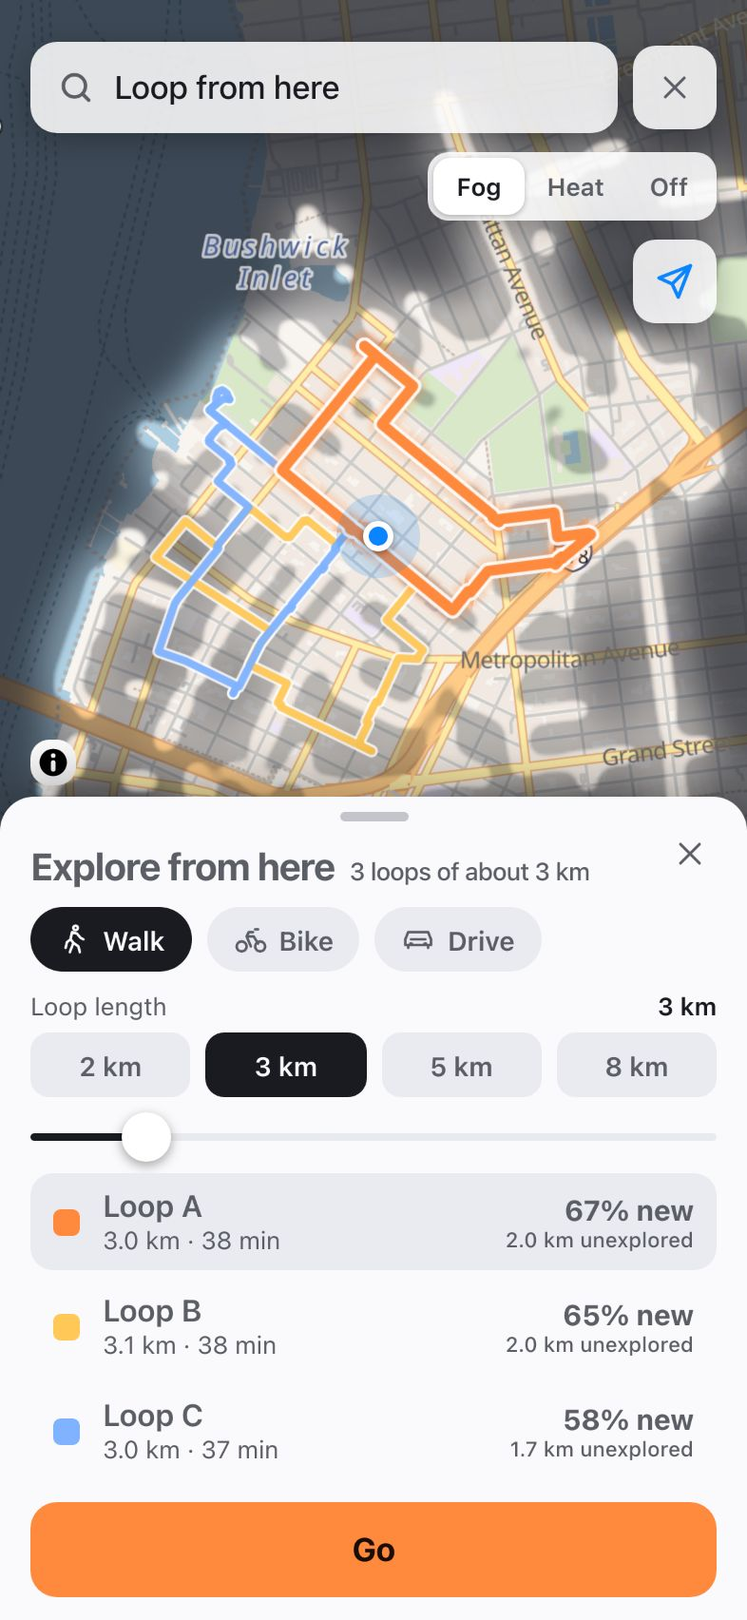
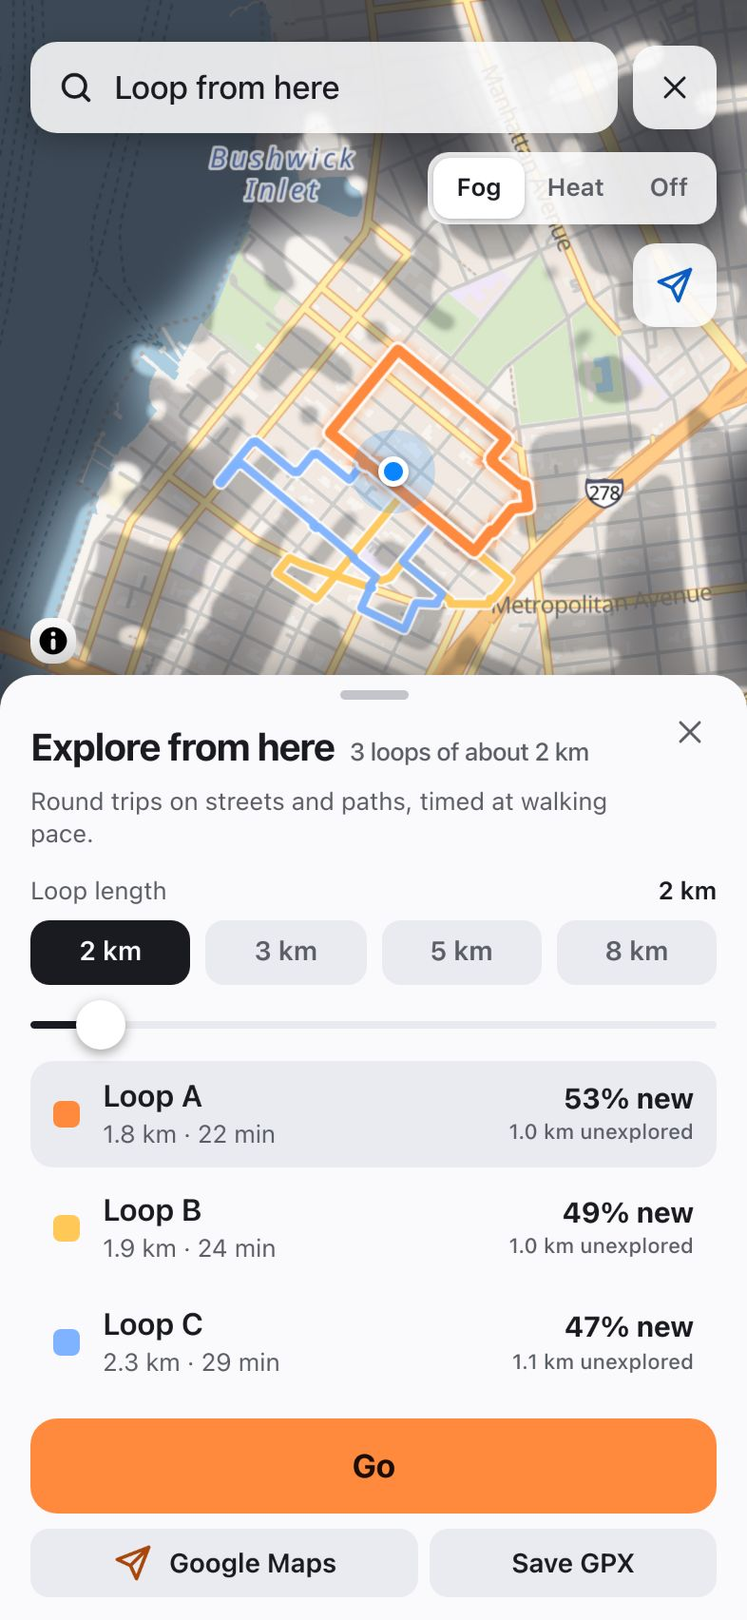
Landing site v3: fresh real screenshots after rounds 1–2, four views, tracking section; Help routes paragraph; README + iPhone checklist
- welcome: every figure re-captured from the built app (one travel mode, compact Google Maps row under
  Go, tracking pill, Settings switch, Data with Routing data, satellite + night views); copy for
  self-downloading streets across North America, the tracking switch and turn-by-turn via Google Maps;
  703 KB at 393 px, no third-party requests; OG image regenerated.
- capture.mjs/encode.mjs: new frames, basemap switching, pack relay for this Mac's Chromium, wake-lock shim.
- Help: 'What the routes do' explains that street data downloads by itself; README features + screenshots;
  iPhone checklist rows for automatic routing data.

diff --git a/welcome/index.html b/welcome/index.html
@@ -69,7 +69,7 @@
         <div class="phone">
           <picture>
             <source srcset="img/route.webp" type="image/webp">
-            <img src="img/route.jpg" width="786" height="1704" alt="Unfog's route sheet for Domino Park over a fogged map of Williamsburg: an orange Most new route that is 68 percent unexplored, an amber Balanced route and a blue Direct route, with a detour budget of plus 25 percent." fetchpriority="high">
+            <img src="img/route.jpg" width="786" height="1704" alt="Unfog's route sheet for Domino Park over a fogged map of Williamsburg: an orange Most new route that is 68 percent unexplored, an amber Balanced route and a blue Direct route, a detour budget of plus 25 percent, the Go button and a row of Google Maps, Apple Maps and Save GPX buttons under it." fetchpriority="high">
           </picture>
         </div>
         <figcaption class="fine">The real app, routing to Domino Park over sample walks in Williamsburg, Brooklyn.</figcaption>
@@ -82,8 +82,8 @@
 
     <section class="wrap section" id="views">
       <div class="section-head">
-        <p class="eyebrow">Three views</p>
-        <h2>Fog, heat, route.</h2>
+        <p class="eyebrow">Four views</p>
+        <h2>Fog, heat, satellite, route.</h2>
       </div>
       <div class="views">
         <figure class="view">
@@ -102,10 +102,17 @@
         </figure>
         <figure class="view">
           <picture>
-            <source srcset="img/route.webp" type="image/webp">
-            <img src="img/route.jpg" width="786" height="1704" loading="lazy" alt="Route sheet for Domino Park: an orange Most new route that is 68 percent new, an amber Balanced route at 61 percent and a blue Direct route at 63 percent, with a detour budget slider at plus 25 percent.">
+            <source srcset="img/satellite.webp" type="image/webp">
+            <img src="img/satellite.jpg" width="786" height="1704" loading="lazy" alt="Satellite view: the same fog over aerial imagery of Williamsburg. The blocks walked around the blue position dot form a lighter island with bright street corridors, everything around them sits dimmed under the fog, and street names stay legible in white.">
           </picture>
-          <figcaption><strong>Route</strong>Pick a destination and a detour budget; get up to three candidates, from Most new to Direct, each with its share of unexplored street. Routes follow paths where they exist and straight lines where they don't.</figcaption>
+          <figcaption><strong>Satellite</strong>The same fog over aerial imagery, street names kept. Choose Map, Dark or Satellite in Settings; Dark is a night map with lit streets.</figcaption>
+        </figure>
+        <figure class="view">
+          <picture>
+            <source srcset="img/route.webp" type="image/webp">
+            <img src="img/route.jpg" width="786" height="1704" loading="lazy" alt="Route sheet for Domino Park: an orange Most new route that is 68 percent new, an amber Balanced route at 66 percent and a blue Direct route at 64 percent, a detour budget slider at plus 25 percent, the Go button and under it a row of Google Maps, Apple Maps and Save GPX buttons.">
+          </picture>
+          <figcaption><strong>Route</strong>Pick a destination and a detour budget; get up to three candidates, from Most new to Direct, each with its share of unexplored street. Routes follow paths where they exist and straight lines where they don't, and a Google Maps button under Go takes over with turn-by-turn.</figcaption>
         </figure>
       </div>
       <p class="fine views-note">Screenshots are the real app over sample walks in Williamsburg, Brooklyn, not a mockup.</p>
@@ -117,17 +124,37 @@
           <p class="eyebrow">No destination?</p>
           <h2>Explore from here.</h2>
           <p class="lede">Pick a length and get up to three loops from where you stand, each one favouring streets you have never walked.</p>
-          <ul class="loop-chips" aria-label="Loop length presets"><li>2 km</li><li class="on">3 km</li><li>5 km</li><li>8 km</li></ul>
-          <p>Tap <b>Where to?</b>, then <b>Explore a loop from here</b>. The presets run 2 to 8 km and the slider 1 to 15 km. The loops come back as Loop A, B and C, sorted by unexplored distance, and Go follows the one you pick.</p>
+          <ul class="loop-chips" aria-label="Loop length presets"><li class="on">2 km</li><li>3 km</li><li>5 km</li><li>8 km</li></ul>
+          <p>Tap <b>Where to?</b>, then <b>Explore a loop from here</b>. The presets run 2 to 8 km and the slider 1 to 15 km. The loops come back as Loop A, B and C, sorted by unexplored distance; Go follows the one you pick, or hand it to Google Maps from the row under Go.</p>
         </div>
         <figure class="loops-figure">
           <div class="phone">
             <picture>
               <source srcset="img/loop.webp" type="image/webp">
-              <img src="img/loop.jpg" width="786" height="1704" loading="lazy" alt="Unfog's Explore from here sheet: three loops of about 3 km drawn from the user's position over the fogged map, length presets of 2, 3, 5 and 8 kilometres with 3 km selected, and Loop A at 67 percent new, Loop B at 65 percent and Loop C at 58 percent.">
+              <img src="img/loop.jpg" width="786" height="1704" loading="lazy" alt="Unfog's Explore from here sheet: three loops of about 2 km drawn from the user's position over the fogged map, length presets of 2, 3, 5 and 8 kilometres with 2 km selected, Loop A at 53 percent new, Loop B at 49 percent and Loop C at 47 percent, the Go button and a Google Maps and Save GPX row under it.">
             </picture>
           </div>
-          <figcaption class="fine">Three 3 km loops from Bedford Avenue and North 7th Street.</figcaption>
+          <figcaption class="fine">Three 2 km loops from Bedford Avenue and North 7th Street.</figcaption>
+        </figure>
+      </div>
+    </section>
+
+    <section class="wrap section" id="tracking">
+      <div class="split tracking">
+        <div class="tracking-copy">
+          <p class="eyebrow">Track my movement</p>
+          <h2>Clears as you walk.</h2>
+          <p class="lede">One switch in Settings, and Unfog clears the fog as you move, whenever it is open and on screen.</p>
+          <p>Nothing to start or stop. A small Tracking pill on the map is the only sign, the screen stays awake, and each day you have it open is one session you can export as GPX. That is as far as iOS lets a web app go: lock the phone or switch apps and the trail pauses until you are back. Fog of World records in the background, so keep it as your recorder and import its history now and then.</p>
+        </div>
+        <figure class="tracking-figure">
+          <div class="phone">
+            <picture>
+              <source srcset="img/settings.webp" type="image/webp">
+              <img src="img/settings.jpg" width="786" height="1704" loading="lazy" alt="Unfog's Settings in the Help screen: the Track my movement switch turned on with a note that iOS only lets a web app record while it is open, then Basemap with Map, Dark and Satellite, Units, Cleared core and the fog sliders.">
+            </picture>
+          </div>
+          <figcaption class="fine">Help → Settings: the switch, and the basemap choice underneath it.</figcaption>
         </figure>
       </div>
     </section>
@@ -140,7 +167,7 @@
       <ol class="how">
         <li>
           <h3>Fog of World stays your recorder</h3>
-          <p>Keep recording there as always. It tracks in the background, which a web app cannot, and Unfog never touches its data. Copy your history out once, then again whenever you want the map caught up. Unfog also tracks on its own while it is open: one switch in Settings, and the fog clears as you move.</p>
+          <p>Keep recording there as always. It tracks in the background, which a web app cannot, and Unfog never touches its data. Copy your history out once, then again whenever you want the map caught up. Unfog can track too: flip Track my movement once in Settings and the fog clears as you move, whenever the app is open and on screen.</p>
         </li>
         <li>
           <h3>Unfog imports your history</h3>
@@ -148,7 +175,7 @@
         </li>
         <li>
           <h3>Routes maximise unexplored streets</h3>
-          <p>Set a detour budget from +10 % to +100 % (default +25 %). Unfog searches the street graph for routes that spend the most distance on streets you have never been on: they follow paths where they exist, footpaths and stairs included, and straight lines where they don't, timed at walking pace. Tap Go and follow along on the map, or hand the route to Google Maps for turn-by-turn walking directions: one tap, the route's corners become checkpoints, and a long route opens in parts. No destination in mind? Ask for a loop of 2 to 8 km from where you stand instead.</p>
+          <p>Set a detour budget from +10 % to +100 % (default +25 %). Unfog searches the streets for routes that spend the most distance on ones you have never been on: they follow paths where they exist, footpaths and stairs included, and straight lines where they don't, timed at walking pace. The street data takes care of itself: anywhere in North America the streets around you download in the background and stay on the phone for offline routes. Tap Go and follow along on the map, or hand the route to Google Maps for turn-by-turn walking directions: one tap under Go, the route's corners become checkpoints, and a long route opens in parts of nine. No destination in mind? Ask for a loop of 2 to 8 km from where you stand instead.</p>
         </li>
       </ol>
     </section>
@@ -174,9 +201,10 @@
           <div class="phone">
             <picture>
               <source srcset="img/data.webp" type="image/webp">
-              <img src="img/data.jpg" width="786" height="1704" loading="lazy" alt="Unfog's Data screen: Import files, Export backup with the last backup date, prebuilt routing data for New York City and Metro Vancouver, sessions and Delete all data.">
+              <img src="img/data.jpg" width="786" height="1704" loading="lazy" alt="Unfog's Data screen: Export backup with the last backup date, then Routing data with the automatic street downloads listed as Streets near New York (US) with their size, above the prebuilt regions for New York City, Salt Spring Island and Metro Vancouver.">
             </picture>
           </div>
+          <figcaption class="fine">Further down the same Data screen: your backup, and the streets that download by themselves.</figcaption>
         </figure>
       </div>
     </section>
@@ -219,12 +247,12 @@
       <div class="privacy">
         <div class="copy">
           <p>No accounts, no analytics, no server of ours. Your history lives in the app's own storage on the phone, and a backup is a zip you export through the share sheet to Files or iCloud Drive.</p>
-          <p>A few requests do go out, only when needed, and none of them carry your history. The app itself and the prebuilt routing graphs for New York City and Metro Vancouver download from this site.</p>
+          <p>A few requests do go out, only when needed, and none of them carry your history. The app, its prebuilt regions and its street data download from GitHub Pages, where this site lives.</p>
         </div>
         <dl class="leaves">
-          <div><dt>Map tiles</dt><dd>From OpenFreeMap as you pan. Tiles you have seen are kept for offline use.</dd></div>
+          <div><dt>Map tiles</dt><dd>From OpenFreeMap as you pan, or Esri for the satellite view. Tiles you have seen are kept for offline use.</dd></div>
           <div><dt>Place search</dt><dd>What you type in "Where to?" goes to Photon (komoot) to find the place.</dd></div>
-          <div><dt>Street data on demand</dt><dd>Planning a route outside a prebuilt region fetches the streets around you from Overpass once, then keeps them on the phone.</dd></div>
+          <div><dt>Street data</dt><dd>Across North America the streets around you download by themselves from this project's map data, a few megabytes at a time (Wi-Fi or mobile, paused in Low Data Mode). Elsewhere, "Download this area" fetches them from Overpass once. Either way they stay on the phone.</dd></div>
         </dl>
       </div>
     </section>
@@ -245,7 +273,7 @@
         <details>
           <summary>Where does routing work?</summary>
           <div>
-            <p>Prebuilt routing graphs cover New York City and Metro Vancouver. Download one from Data → Routing data to route offline. Anywhere else, Unfog offers "Download this area" when you plan a route: it fetches the streets around you from Overpass once (a few kilometres around the route), then keeps them on the phone.</p>
+            <p>Anywhere in North America, with no download step: the streets around you and along each route arrive by themselves and stay on the phone for offline routes. Data → Routing data shows what is there, and clearing it loses nothing. Prebuilt regions for New York City, Metro Vancouver and Salt Spring Island can be downloaded whole in one tap. Elsewhere in the world, Unfog offers "Download this area" when you plan a route: it fetches the streets from Overpass once, a few kilometres around the route. Where no streets are known yet, a route is a straight line you can still follow.</p>
           </div>
         </details>
         <details>

diff --git a/welcome/style.css b/welcome/style.css
@@ -232,9 +232,10 @@ h3 { font-size: 1.125rem; font-weight: 600; line-height: 1.3; letter-spacing: -0
 .view strong { color: var(--ink); display: block; margin-bottom: 4px; font-size: 1.0625rem; }
 .views-note { margin-top: 16px; }
 
-/* ---------------------------------------------------------------- loops (Explore from here) */
-.loops-copy > p:not(.eyebrow):not(.lede) { margin-top: 20px; color: var(--ink-2); max-width: 58ch; }
-.loops-copy .lede { margin-top: 16px; }
+/* ---------------------------------------------------------------- loops (Explore from here) + tracking (Track my movement) */
+.loops-copy > p:not(.eyebrow):not(.lede), .tracking-copy > p:not(.eyebrow):not(.lede) { margin-top: 20px; color: var(--ink-2); max-width: 58ch; }
+.loops-copy .lede, .tracking-copy .lede { margin-top: 16px; }
+.tracking-figure figcaption { margin-top: 20px; text-align: center; }
 .loop-chips {
   display: flex;
   flex-wrap: wrap;
@@ -302,6 +303,7 @@ h3 { font-size: 1.125rem; font-weight: 600; line-height: 1.3; letter-spacing: -0
 .split .fine { margin-top: 20px; }
 .split .fine + .fine { margin-top: 12px; }
 .split .phone { margin-top: 8px; }
+.split figure > figcaption { margin-top: 20px; text-align: center; }
 .aside { display: grid; gap: 16px; margin-top: 32px; }
 .aside p { color: var(--ink-2); }
 .split h3 + .steps, .split h3 + p { margin-top: 12px; }
@@ -362,8 +364,6 @@ h3 { font-size: 1.125rem; font-weight: 600; line-height: 1.3; letter-spacing: -0
   .privacy { grid-template-columns: minmax(0, 1.1fr) minmax(0, 0.9fr); align-items: start; }
 }
 @media (min-width: 760px) {
-  .views { display: grid; grid-template-columns: repeat(3, minmax(0, 1fr)); overflow: visible; margin-inline: 0; padding: 0; gap: 32px; }
-  .view { flex: none; }
   .split { grid-template-columns: minmax(0, 1fr) minmax(0, 1fr); align-items: start; gap: 56px; }
   .split .phone { margin-top: 0; width: min(300px, 100%); }
   /* Loops: phone on the left, flush with the page's text edge, copy on the right — the mirror of the export/install splits below it. */
@@ -371,6 +371,10 @@ h3 { font-size: 1.125rem; font-weight: 600; line-height: 1.3; letter-spacing: -0
   .split.loops .loops-figure { order: -1; }
   .split.loops .phone { margin-inline: 0 auto; }
   .split.loops figcaption { text-align: left; }
+  /* Tracking: the mirror of loops — copy left, phone right on the page's outer edge. */
+  .split.tracking { grid-template-columns: minmax(0, 1.3fr) minmax(0, 0.7fr); align-items: center; }
+  .split.tracking .phone { margin-inline: auto 0; }
+  .split.tracking figcaption { text-align: right; }
   .band {
     display: block;
     position: relative;
@@ -398,6 +402,9 @@ h3 { font-size: 1.125rem; font-weight: 600; line-height: 1.3; letter-spacing: -0
   }
 }
 @media (min-width: 900px) {
+  /* Four views side by side only once each column is ≥ 240 px; below that the row stays a snap scroller. */
+  .views { display: grid; grid-template-columns: repeat(4, minmax(0, 1fr)); overflow: visible; margin-inline: 0; padding: 0; gap: 28px; }
+  .view { flex: none; }
   .hero {
     grid-template-columns: minmax(0, 1.15fr) minmax(0, 0.85fr);
     align-items: center;

diff --git a/src/app/help.ts b/src/app/help.ts
@@ -174,7 +174,7 @@ export function createHelpScreen(ctx: AppContext): HelpScreen {
         '"% new" is the share of the route on never-visited streets; "unexplored" is that distance.',
         'Most new maximises unexplored distance; Balanced trades a little; Direct is the shortest and is always shown.',
         'No destination in mind? "Where to?" → "Explore a loop from here" gives round trips of a length you choose.',
-        'Routing needs street data: prebuilt regions (Data → Routing data) or "Download this area" when you plan a route somewhere new (needs a connection once).',
+        'Street data comes by itself: as you move around (and wherever you plan a route), Unfog downloads the streets of that area in the background — Wi-Fi or mobile, paused when Low Data Mode is on — and keeps them for routes offline. Data → Routing data shows what is on your phone; nothing is lost by clearing it. Where no streets are known yet, routes are straight lines you can still follow, and "Download this area" fetches a place outside the automatic coverage (North America today).',
       ]),
     ),
     navigate: section(

diff --git a/docs/iphone-checklist.md b/docs/iphone-checklist.md
@@ -22,7 +22,10 @@ Fog of World → long-press **Sync** → Compress) on the phone; a charged phone
 | 11 | Route sheet. | Title + "x km direct", one line "Routes follow paths where they exist and straight lines where they don't, timed at walking pace" (no Walk/Bike/Drive anywhere), detour slider "+25% · up to y km", 2–3 candidates (Most new / Balanced / Direct) with "km · min" (walking pace) and "% new / km unexplored"; selected route orange with glow, alternatives amber/blue; pin at the destination; camera fits the routes above the sheet. Move the slider → routes recompute. A pin off the street grid: the status line says "starts/ends with N m off-path" and that leg is dashed. | |
 | 11b | "Where to?" → **Explore a loop from here** (also offered in the route sheet when no route is found). | Sheet "Explore from here · loops of about 3 km": the line "Round trips on streets and paths, timed at walking pace", length chips 2 / 3 / 5 / 8 km + a 1–15 km slider, then 1–3 rows "Loop A / B / C" with "km · min" and "% new / km unexplored"; round trips starting at the blue dot (a pin marks the start only when there is no location and the map centre is used), drawn with the same orange/amber/blue styling and fitted above the sheet; pill reads "Loop from here". Tap **5 km** → loops recompute near 5 km; drag the slider → the label follows and loops recompute when you let go; the length is remembered next time. **Go** → follow bar "Loop A · x km · y min", "z% new · round trip from here"; **End** restores the chrome. | |
 | 11c | Route sheet (Google Maps app installed) → **Google Maps** (the row under Go). Then plan a long route (e.g. across the East River, > 8 km) and look under Go again. | The Google Maps app opens (not Safari) with walking directions along the route's corners, turn-by-turn ready to start; the route began at your position, so no origin is sent and Google uses the phone. A long route shows "1 of N · x km" (arrow icon), "2 of N · y km"… buttons in that row and the line "Google Maps: N parts (9 checkpoints per trip)."; each later part opens as a preview from the previous part's end. The row stays one line high, so the loops/routes are still fitted above the sheet. **Apple Maps** opens walking directions to the destination only. **Save GPX** → share sheet → Save to Files gives `unfog-route-<place>.gpx`. Loops offer Google Maps + Save GPX, no Apple Maps. Without the Google Maps app the link opens Google Maps in Safari, which honours only 3 checkpoints: note it. | |
-| 12 | Route somewhere with no graph coverage (outside NYC/Vancouver). | "No routing data for this area yet" with **Download this area** (progress) and/or a region download; after it finishes routes appear. | |
+| 12 | Plan a route in a city with no prebuilt region and nothing downloaded (e.g. long-press a pin in Philadelphia or Boston after panning there; Wi-Fi or mobile, Low Data Mode off). | The route appears by itself after a short wait: no prompt, no download button, no "No routing data" line. Data → Routing data reads "Automatic: the streets around you download as you go…" and lists "Streets near New York (US)"-style rows with a size and "used today", then "N MB of streets on this phone" with **Clear**, then "Coverage list updated …". The prebuilt Regions list is still underneath. Outside North America (e.g. a pin in Paris) the old offer stays: "No routing data for this area yet" with **Download this area** and **Route anyway (straight line)**. | |
+| 12b | Data → Routing data → **Clear**. Then plan the same route again. | Toast "Routing data cleared — it downloads again as you go"; the list reads "Nothing downloaded yet…" and Clear is gone; the prebuilt Regions below are untouched. The route comes back on its own and the list refills. | |
+| 12c | Airplane mode. Plan a route where the streets were just cached (12), then one somewhere in North America you never opened online. | Cached: the real route, offline. Never opened: a dashed straight line "as the crow flies" at once, with a status line saying so — no error, no spinner, no download offer; the map strip and Go still work. Back online, plan it again → the real route replaces the line. | |
+| 12d | Walk (or pan the map) a few km into an area you never opened, with tracking off, then check Data → Routing data. | New rows / a bigger total within a minute or so of arriving (the streets around you download in the background); with Low Data Mode on (Settings › Cellular › Cellular Data Options) nothing new arrives until it is off. | |
 | 13 | Tap **Go**. | Sheet collapses to a bar (route name · km · min, **End**); the map follows the blue dot; selected route stays. Walk 50 m → dot moves, map follows. **End** restores the chrome. | |
 | 14 | Long-press the map. | Destination pin dropped, route sheet opens ("Dropped pin"). Clear with × next to the search pill. | |
 | 15 | Help → Settings → **Track my movement** on (first time: iOS location prompt → Allow). Back on the map, walk ~5 minutes with the screen on. | The switch turns green and stays on across relaunches. A small "Tracking" pill (red dot) sits top-left under the search pill; no banner, no Stop, nothing else changes — search, routes and long-press all still work. Screen does not auto-lock (wake lock). Walking a street you have never walked lifts fog behind you within ~5 s (the next checkpoint) and the stat chip's cell count grows. Tapping the pill opens Help → Tracking. | |
@@ -32,7 +35,7 @@ Fog of World → long-press **Sync** → Compress) on the phone; a charged phone
 | 19 | Data → **Export backup**. | Share sheet with `unfog-backup-YYYYMMDD.zip` → Save to Files / iCloud Drive. "Last backup today" under the button. Stats → Last backup date updated. | |
 | 20 | Delete the Home Screen icon, reinstall from Safari, open, Data → Import → pick the backup zip. | Everything restored (same area in the stat chip; sessions listed). | |
 | 21 | Airplane mode, relaunch from the Home Screen, pan around your area. | App loads offline; previously viewed basemap tiles show; unvisited basemap areas are blank but the fog/heat overlay still renders; search shows "needs a connection". | |
-| 22 | Data → Routing data → Download New York City (on Wi-Fi), then airplane mode → plan a route in NYC. | Progress to 100 %; "Offline since …" line; routing works offline. | |
+| 22 | Data → Routing data → in the prebuilt Regions list under the automatic section, Download New York City (on Wi-Fi), then airplane mode → plan a route in NYC. | Progress to 100 %; "Offline since …" line; routing works offline anywhere in the region, not just where you have been. | |
 | 23 | Wait for a new deploy, relaunch. | "Update available — Reload" toast (it never reloads on its own). Reload while tracking is fine: the session so far is saved at the next boot and a new one starts, no dialog. Reload loads the new version without losing data. Help → the last line reads "Unfog 0.1.0 · build <new sha>". | |
 | 24 | Import GPX (Apple Health export `workout-routes/*.gpx`) and a Google Timeline JSON. | Each shows as "1 track" / "N tracks"; stats list the sources. | |
 
@@ -53,7 +56,7 @@ code paths, but a few behaviours only exist on iOS. Do these explicitly:
 | A8 | While tracking, switch to Camera for 5+ minutes (or take several photos), come back. | If iOS killed the app: relaunch shows no dialog; Data → Sessions has the earlier session with every point up to its last fix, and the pill shows a new session running. | |
 | A9 | Airplane mode **before the very first launch** of a fresh install (worst case: basemap style never cached). | The app still opens: plain grey ground instead of streets, fog/heat overlay renders over it, stats + Data work, routing works where graph data is cached. Turning networking back on swaps in the real basemap without a relaunch. | |
 | A10 | Airplane mode → "Where to?" → type a place. | Status "Search needs a connection", no crash; long-press still drops a pin and routes if graph data is cached. | |
-| A11 | Route somewhere in NYC that was never opened online, while offline, **without** having downloaded the region. | "No routing data for this area yet" with the region/area download buttons; tapping one fails with a clear "Download failed" line (no spinner stuck). | |
+| A11 | Route somewhere in NYC that was never opened online, while offline, **without** having downloaded the region. | A dashed straight line "as the crow flies" comes back at once (the coverage list knows a pack covers NYC, nothing of it is on the phone): no "No routing data" offer, no spinner stuck. Somewhere outside every pack (e.g. Paris) while offline: "No routing data for this area yet"; tapping **Download this area** fails with a clear "Download failed" line. | |
 | A12 | Help → Settings → change a slider with a finger drag (not a tap). | The value label follows the drag; the overlay re-renders only when the finger lifts (one re-render per gesture, no stutter). | |
 | A13 | Delete the Home Screen icon → Safari → same URL. | Data is gone (separate container) and the install card is back; importing the backup restores everything. | |
 | A14 | Trigger two toasts in a row (e.g. Data → Export backup → Cancel the share sheet, then straight away Export again → Save), and one while a route sheet / the Heat legend is up. | Toasts show one at a time (the second waits for the first), sit just above the tab bar / stat chip / sheet — never over a button — and never touch the locate button or the legend. With the phone in landscape the sheets, screens and search panel keep clear of the notch (safe-area padding). | |
@@ -72,5 +75,6 @@ code paths, but a few behaviours only exist on iOS. Do these explicitly:
 - **Location permission.** No install-time prompt; the first request comes from a tap. `permissions.query` is unreliable on WebKit, so the app always asks and handles "denied" with the Help panel. iOS 26.0.x had an installed-app "denied" regression — Settings › General › Transfer or Reset › Reset › Reset Location & Privacy fixes it. Precise Location off ⇒ accuracy in km ⇒ fixes are dropped (> 50 m).
 - **Separate container.** The Home Screen app does not share storage or permissions with the Safari tab; importing/allowing must be done inside the installed app. Deleting the icon deletes the data — hence the backup nag after 14 days.
 - **No install prompt / share target.** Install is manual (Share → Add to Home Screen); files cannot be shared *to* Unfog, only picked from Files. No orientation lock (manifest `orientation` is ignored), no splash image unless `apple-touch-startup-image` PNGs are added.
+- **Street data uses mobile data.** The automatic routing layer fetches a few MB of streets around you and along each route (North America), on Wi-Fi and cellular alike; it pauses in Low Data Mode and never runs offline. The cache trims itself, so Clear is never required.
 - **Cross-origin links** (attribution) open an in-app browser overlay, not Safari.
 - **Storage.** Home Screen apps get a large quota and `persist()` is auto-granted; the ITP 7-day wipe applies to the Safari-tab version only — install, don't bookmark.

diff --git a/README.md b/README.md
@@ -9,9 +9,9 @@ choose. Everything stays on your device.
 
 Live: https://data-t3labs.github.io/unfog/ · About page: https://data-t3labs.github.io/unfog/welcome/
 
-| Fog | Heat | Route | Loop |
-|---|---|---|---|
-| ![Fog view](welcome/img/fog.jpg) | ![Heat view](welcome/img/heat.jpg) | ![Route sheet](welcome/img/route.jpg) | ![Explore from here: three 3 km loops](welcome/img/loop.jpg) |
+| Fog | Heat | Satellite | Route | Loop |
+|---|---|---|---|---|
+| ![Fog view](welcome/img/fog.jpg) | ![Heat view](welcome/img/heat.jpg) | ![Fog over satellite imagery](welcome/img/satellite.jpg) | ![Route sheet with the Google Maps row under Go](welcome/img/route.jpg) | ![Explore from here: three loops](welcome/img/loop.jpg) |
 
 Screenshots are the real app over sample walks in Williamsburg, Brooklyn (captured by
 `tests/e2e/landing/capture.mjs`).
@@ -20,8 +20,9 @@ Screenshots are the real app over sample walks in Williamsburg, Brooklyn (captur
 
 - Import Fog of World `Sync.zip` / raw Sync files / `.fwss` snapshots, GPX (Apple Health, Strava…),
   Google Timeline exports, and Unfog backups
-- Fog and heat layers over an OpenFreeMap basemap, rendered smoothly at full resolution from
-  Fog of World's own cell grid (so re-imports line up exactly)
+- Fog and heat layers rendered smoothly at full resolution from Fog of World's own cell grid (so
+  re-imports line up exactly), over a Map, Dark (night) or Satellite basemap (OpenFreeMap; Esri
+  imagery with street names kept)
 - Novelty routing: a detour budget and 2–3 candidate routes with "% new"; routes follow paths
   where they exist (streets, footpaths, stairs, either direction) and straight lines where they
   don't, timed at walking pace
@@ -30,7 +31,12 @@ Screenshots are the real app over sample walks in Williamsburg, Brooklyn (captur
 - Hand-off to Google Maps: one tap opens the chosen route or loop in the Google Maps app for
   turn-by-turn walking directions — its corners become checkpoints and long routes open in parts;
   Apple Maps (destination only) and Save GPX for any other app
-- Prebuilt routing graphs for New York City and Metro Vancouver; download any other area on demand
+- Street data that downloads itself: anywhere in North America the streets around you and along
+  each route arrive in the background (Wi-Fi or mobile, paused in Low Data Mode) and stay on the
+  phone for offline routes (Data → Routing data). Prebuilt regions for New York City, Metro
+  Vancouver and Salt Spring Island download whole in one tap; elsewhere in the world "Download
+  this area" fetches the streets from Overpass once. Where no streets are known, a route is a
+  straight line you can still follow
 - Track my movement: one switch in Settings, then Unfog clears the fog as you move whenever it is
   open and on screen (the screen stays awake); sessions export as GPX for Fog of World's Import folder
 - Backup / restore through the iOS share sheet; works offline once installed
